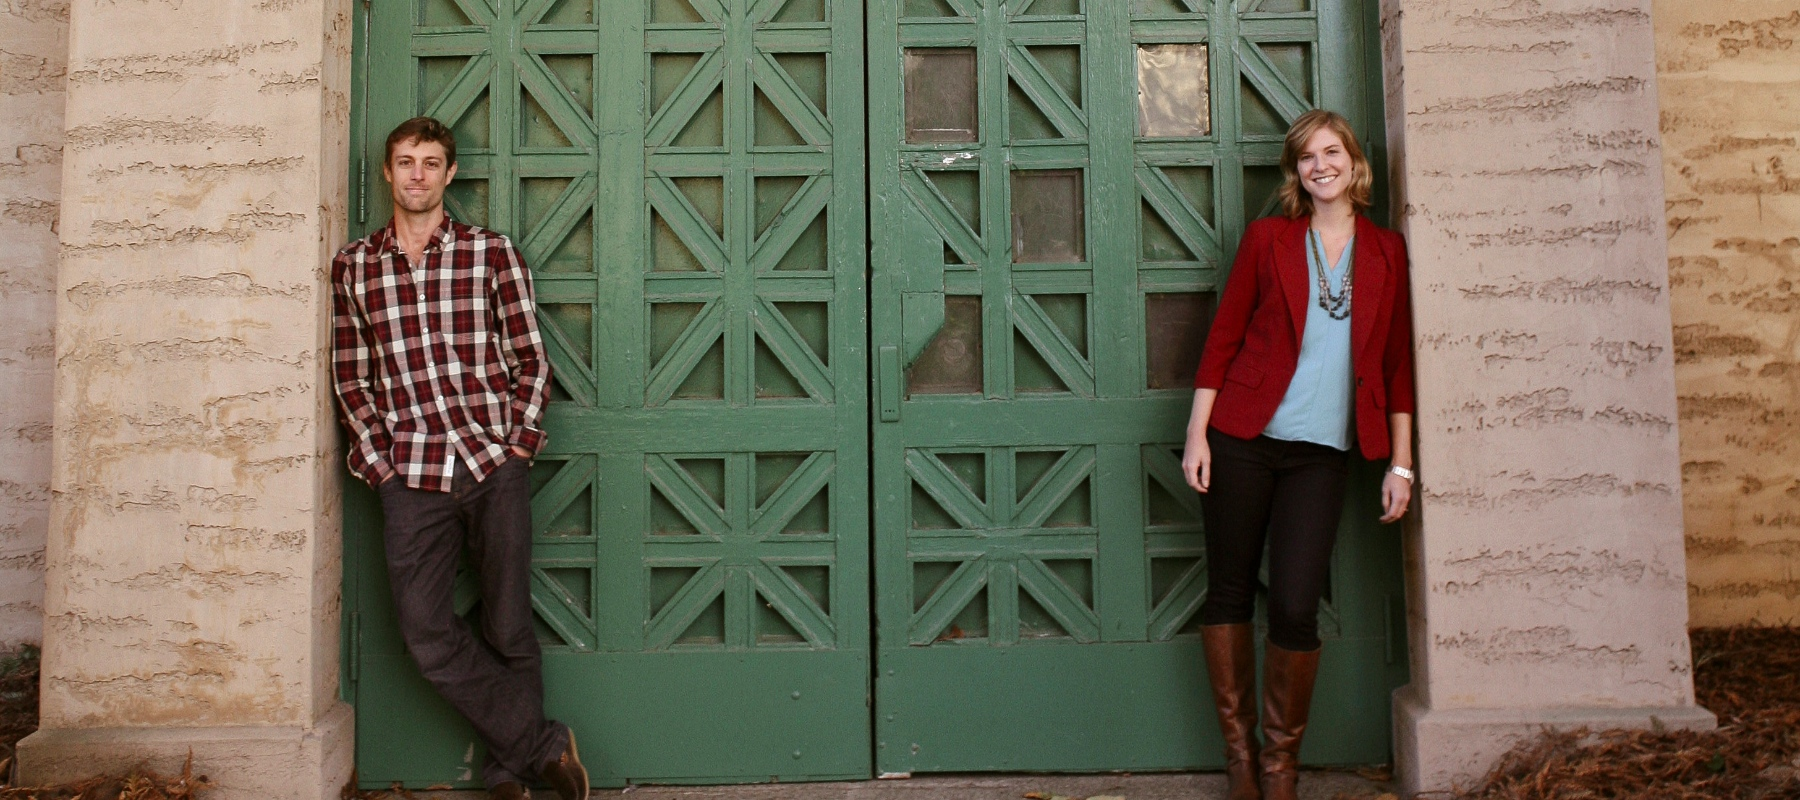
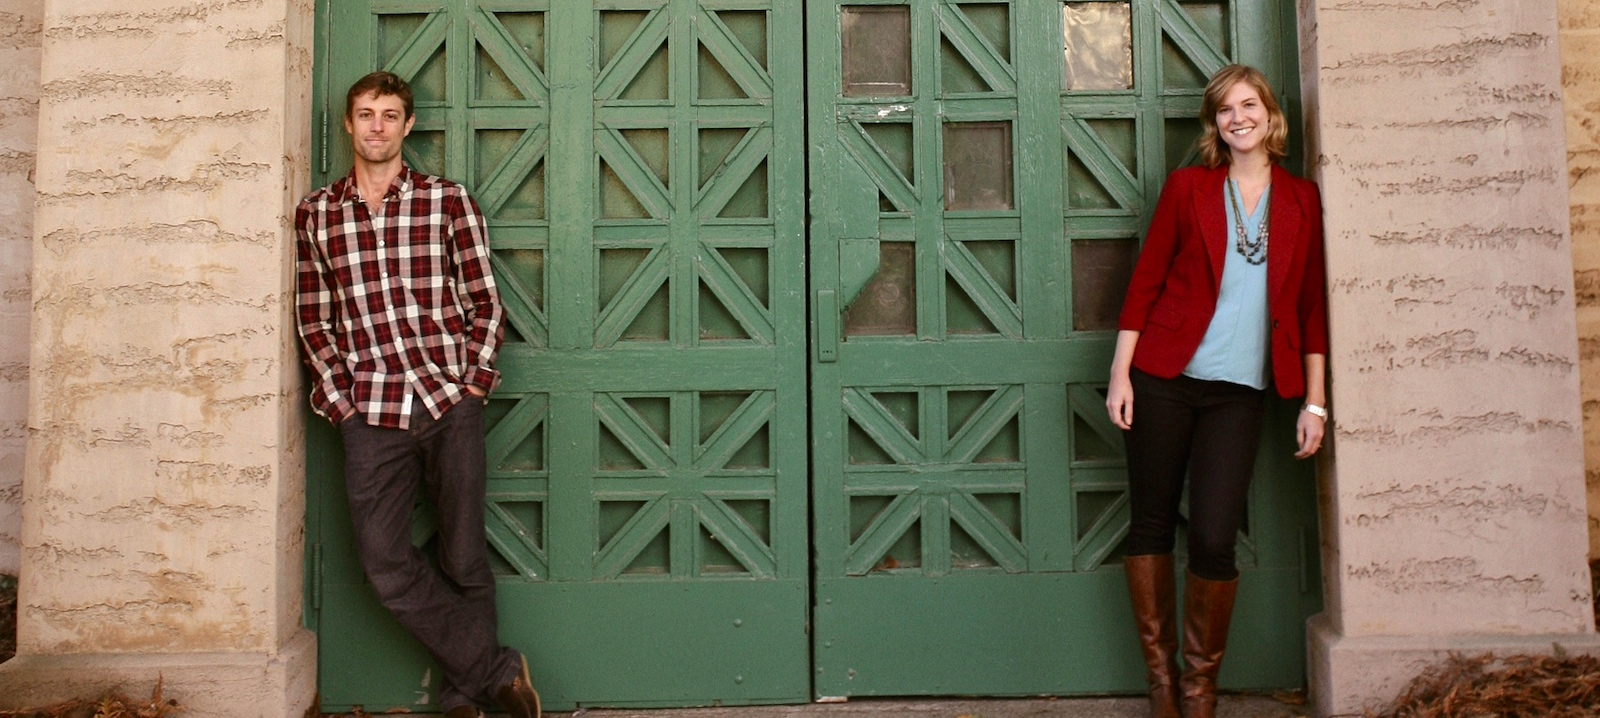
some final tweaks to the carousel image

diff --git a/static/css/main.css b/static/css/main.css
@@ -101,12 +101,10 @@ body {
 .carousel-inner > .item > img {
     position: absolute;
     top: 0;
-    left: 0;
-    width: auto;
-    height: auto;
-    min-width: 1125px;
-    min-height: 500px;
-  }
+    left: 50%;
+    margin-left: -800px;
+    min-width: 1600px;
+}
 
 
 /* MARKETING CONTENT
@@ -193,6 +191,7 @@ img.featurette-image {
 @media (min-width: 768px) and (max-width: 992px) {
   .carousel-inner > .item > img {
     left: -18%;
+    margin-left: 0;
     min-width: 140%;
   }
 }
@@ -208,8 +207,9 @@ img.featurette-image {
   }
   .carousel-inner > .item > img {
     top: 50px;
-    left: -35%;
-    min-width: 175%;
+    left: -30%;
+    margin-left: 0;
+    min-width: 160%;
     min-height: 0;
   }
   .carousel-caption {

diff --git a/templates/index.html b/templates/index.html
@@ -14,7 +14,7 @@
     </div>
     <div class="carousel-inner">
       <div class="item active">
-        <img src="static/images/us-carousel.jpg" class="img-responsive" alt="ashley and santi">
+        <img src="static/images/us-carousel.jpg" alt="ashley and santi">
       </div>
     </div>
   </div><!-- /.carousel -->
